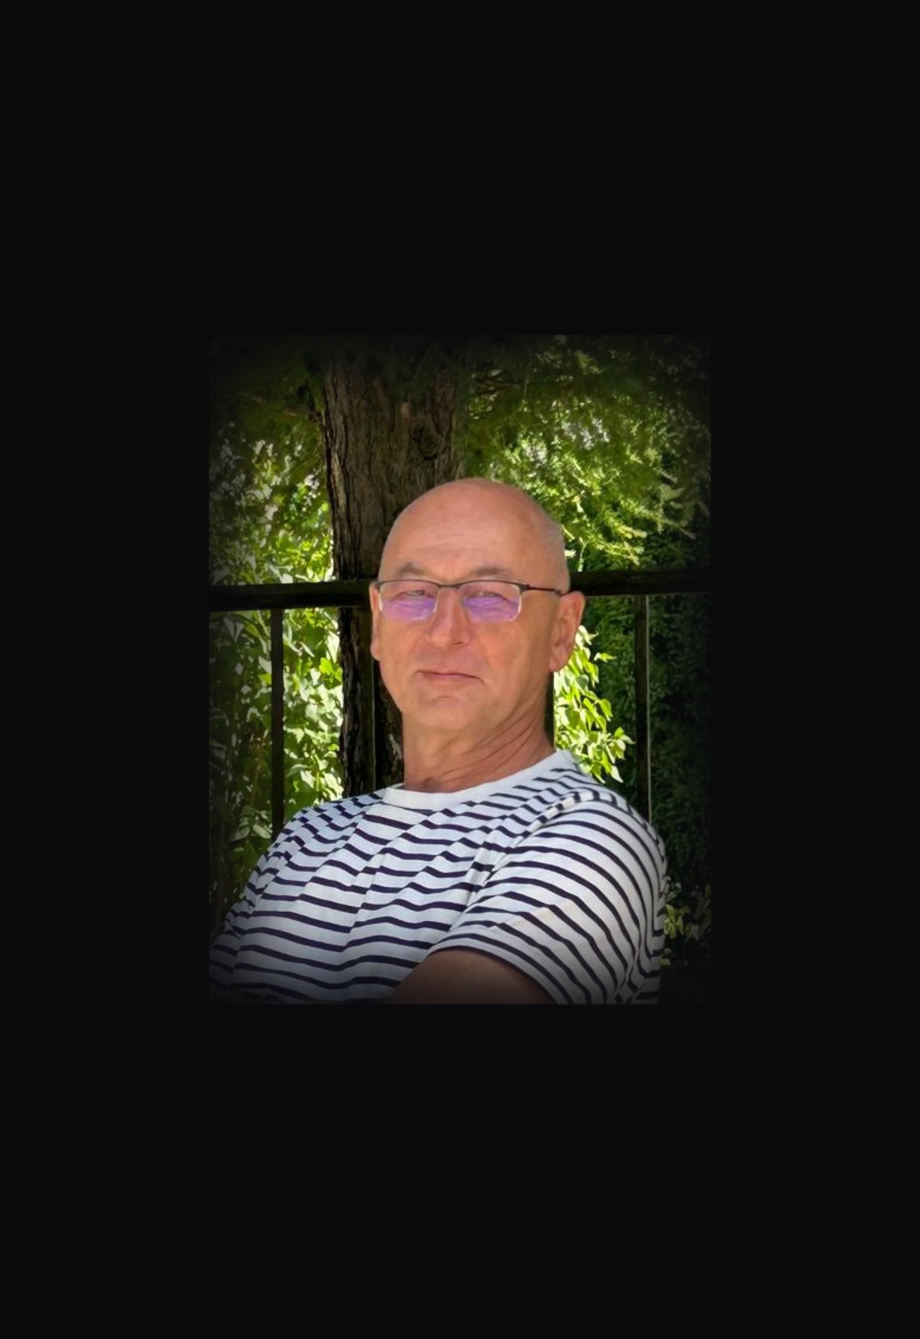
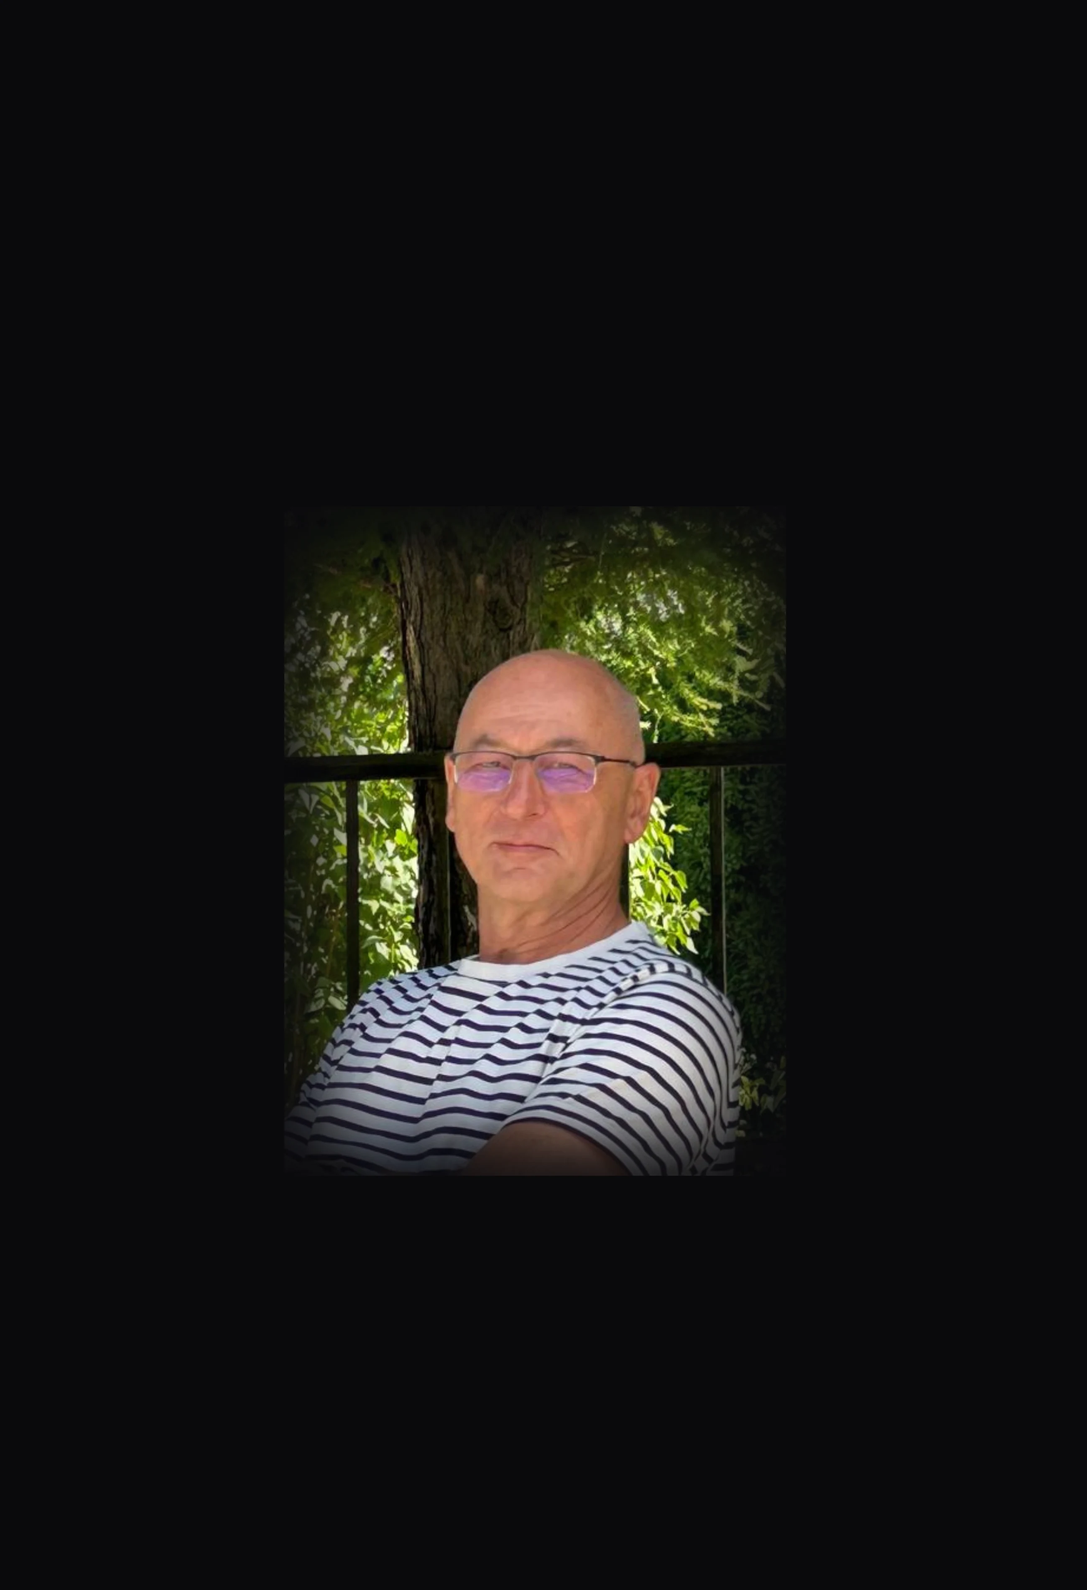
Modal mai insistent, buton WhatsApp flotant, carduri și obiecții refăcute
Modal: contorul devine "Înscrierea e simplă:"; câmpurile sunt acum
nume, telefon, email și "Care e business-ul?" (fișa Google a
dispărut). Apare după 7 secunde în loc de 20 și la 18% scroll în
loc de 50%. Reapare la fiecare reîncărcare a paginii — memoria de
30 de zile a fost scoasă. Singura excepție: după ce cineva chiar
trimite formularul, nu mai apare în sesiunea aceea.

Buton WhatsApp flotant, jos-dreapta: 56px pe desktop, 52px pe
mobil, CSS izolat cu prefix .wa-float, z-index 8000 — peste nav,
sub modal. Verificat că modalul rămâne deasupra lui.

Poza: pânză 2600x3800 și, mai important, așezată astfel încât fața
să cadă exact în centrul cadrului, nu cadrul pozei. Capul scade de
la ~194px la ~164px pe desktop.

"Ce primești": 7 carduri devin 6, deci grila se umple 3+3 și nu mai
rămâne un rând neterminat. Domeniul și găzduirea sunt tratate
împreună, într-un text mai scurt și neconditionat. Plata e 50/50
pentru orice pachet — dispare împărțirea în patru tranșe și fraza
"unde se lucrează luni întregi". La modificări de conținut apare
acum opțiunea de panou de administrare, în funcție de cine vrea să
se ocupe de întreținere.

Obiecții: de la 2 la 5. Revin cele despre prieten, social media și
WordPress, rescrise să dea dreptate alternativei înainte de a
spune unde e diferența. Datele structurate FAQ urmează aceeași
listă.

Claude-Session: https://claude.ai/code/session_01Xsez89szrkyuBCTWrfDQQi

Changed region(s): [[0.2164, 0.25, 0.7727, 0.75]]

diff --git a/index.html b/index.html
@@ -101,10 +101,34 @@
         },
         {
           "@type": "Question",
+          "name": "Un prieten pasionat îți poate face un site?",
+          "acceptedAnswer": {
+            "@type": "Answer",
+            "text": "Poate ieși chiar bine. Întrebarea e peste șase luni, când vrei o modificare și el are alt job. Fără un acord scris nu există termene și nici cui să te adresezi. Eu lucrez pe contract tocmai ca să nu ajungem acolo."
+          }
+        },
+        {
+          "@type": "Question",
           "name": "Găsești un freelancer la jumătate de preț?",
           "acceptedAnswer": {
             "@type": "Answer",
             "text": "De obicei plătești o lucrare punctuală, nu ceva care ține. Diferența de preț cumpără continuitate: cineva care știe cum lucrezi, răspunde când îl cauți și se ocupă de site și peste un an."
+          }
+        },
+        {
+          "@type": "Question",
+          "name": "O pagină de social media e de ajuns la început?",
+          "acceptedAnswer": {
+            "@type": "Answer",
+            "text": "Chiar e, pentru multe afaceri. Partea care merită știută e că pagina nu e a ta — e găzduită de cineva care poate schimba regulile oricând. Un site și o listă proprie de clienți rămân la tine. Ideal le ai pe amândouă."
+          }
+        },
+        {
+          "@type": "Question",
+          "name": "De ce construiești de la zero și nu pe WordPress?",
+          "acceptedAnswer": {
+            "@type": "Answer",
+            "text": "WordPress e o platformă bună și cea mai răspândită. Alegerea mea e alta din motive practice: fiecare plugin e cod scris de altcineva, iar o actualizare nepotrivită poate încetini site-ul sau deschide o breșă. Construiesc de la zero ca să știu exact ce e înăuntru. Dacă ai deja un WordPress care merge bine, nu te sfătuiesc să-l arunci."
           }
         },
         {
@@ -2584,6 +2608,41 @@
       .lansare-modal__panel { transition: none }
     }
   </style>
+  <!-- ═══════ BUTON FLOTANT WHATSAPP — CSS izolat ═══════ -->
+  <style>
+    /* Prefixat .wa-float. Nu modifică nicio clasă existentă.
+       z-index 8000: peste conținut și nav (500), sub modal (9000). */
+    .wa-float {
+      position: fixed;
+      right: 1.5rem;
+      bottom: 1.5rem;
+      z-index: 8000;
+      width: 56px;
+      height: 56px;
+      display: inline-flex;
+      align-items: center;
+      justify-content: center;
+      background: var(--lime);
+      color: var(--ink);
+      border-radius: 999px;           /* ca .vtag și .pkg-badge */
+      box-shadow: 0 10px 30px rgba(0, 0, 0, .45);
+      transition: background .3s ease, transform .3s var(--fx);
+    }
+
+    .wa-float:hover { background: #DEFF00; transform: translateY(-3px) }
+    .wa-float:focus-visible { outline: 2px solid var(--ods); outline-offset: 3px }
+    .wa-float svg { width: 28px; height: 28px; display: block }
+
+    @media (max-width: 600px) {
+      .wa-float { right: 1rem; bottom: 1rem; width: 52px; height: 52px }
+      .wa-float svg { width: 26px; height: 26px }
+    }
+
+    @media (prefers-reduced-motion: reduce) {
+      .wa-float { transition: none }
+      .wa-float:hover { transform: none }
+    }
+  </style>
 </head>
 
 <body>
@@ -2591,6 +2650,15 @@
   <div id="grain" aria-hidden="true"></div>
   <div id="cur" aria-hidden="true"></div>
   <div id="curR" aria-hidden="true"><span id="curT">Vezi proiect</span></div>
+
+  <!-- ═══════ BUTON FLOTANT WHATSAPP ═══════ -->
+  <a class="wa-float" href="https://wa.me/40734205111?text=Bun%C4%83%2C%20am%20v%C4%83zut%20cebuc.ro%20%C8%99i%20vreau%20s%C4%83%20discut%C4%83m%20despre%20un%20site." target="_blank" rel="noopener noreferrer"
+    aria-label="Scrie-mi pe WhatsApp la +40 734 205 111">
+    <svg viewBox="0 0 24 24" fill="currentColor" aria-hidden="true">
+      <path d="M17.47 14.38c-.3-.15-1.76-.87-2.03-.97-.27-.1-.47-.15-.67.15-.2.3-.77.96-.94 1.16-.17.2-.35.22-.64.07-.3-.15-1.25-.46-2.39-1.47-.88-.79-1.48-1.76-1.65-2.06-.17-.3-.02-.46.13-.61.13-.13.3-.35.45-.52.15-.17.2-.3.3-.5.1-.2.05-.37-.02-.52-.08-.15-.67-1.61-.92-2.21-.24-.58-.49-.5-.67-.51h-.57c-.2 0-.52.07-.79.37-.27.3-1.04 1.02-1.04 2.48s1.07 2.88 1.22 3.08c.15.2 2.1 3.2 5.08 4.49.71.3 1.26.49 1.69.63.71.22 1.36.19 1.87.12.57-.09 1.76-.72 2.01-1.41.25-.69.25-1.29.17-1.41-.07-.12-.27-.2-.57-.35z"/>
+      <path d="M12.04 2C6.58 2 2.13 6.45 2.13 11.91c0 1.75.46 3.45 1.32 4.95L2 22l5.25-1.38a9.87 9.87 0 0 0 4.79 1.22h.01c5.46 0 9.91-4.45 9.91-9.91 0-2.65-1.03-5.14-2.9-7.01A9.82 9.82 0 0 0 12.04 2zm0 18.13h-.01a8.2 8.2 0 0 1-4.18-1.15l-.3-.18-3.12.82.83-3.04-.2-.31a8.17 8.17 0 0 1-1.25-4.36c0-4.54 3.7-8.24 8.24-8.24a8.18 8.18 0 0 1 5.82 2.42 8.18 8.18 0 0 1 2.41 5.83c0 4.54-3.7 8.23-8.24 8.23z"/>
+    </svg>
+  </a>
 
   <!-- ═══════ MODAL „SITE GRATUIT" ═══════ -->
   <div class="lansare-modal" id="lansareModal" role="dialog" aria-modal="true"
@@ -2612,7 +2680,7 @@
           îți spun costurile în cifre înainte să începem și mă ocup eu de configurare, dacă vrei.</p>
       </div>
 
-      <p class="lansare-modal__contor">Locuri rămase: <span id="lansareLocuri">5</span> din 10</p>
+      <p class="lansare-modal__contor">Înscrierea e simplă:</p>
 
       <form class="lansare-modal__form" id="lansareForm"
         action="https://formsubmit.co/lucian.cebuc@gmail.com" method="POST">
@@ -2623,12 +2691,11 @@
         <input class="lansare-modal__in" type="text" name="nume" required
           placeholder="Numele tău" aria-label="Numele tău">
         <input class="lansare-modal__in" type="tel" name="telefon" required
-          placeholder="Telefon" aria-label="Telefon">
-        <input class="lansare-modal__in" type="text" name="firma" required
-          placeholder="Ce firmă ai" aria-label="Ce firmă ai">
-        <input class="lansare-modal__in" type="text" name="fisa_google"
-          placeholder="Link la fișa ta de Google, dacă ai (opțional)"
-          aria-label="Link la fișa ta de Google, dacă ai — opțional">
+          placeholder="Numărul de telefon" aria-label="Numărul de telefon">
+        <input class="lansare-modal__in" type="email" name="email" required
+          placeholder="Email" aria-label="Email">
+        <input class="lansare-modal__in" type="text" name="business" required
+          placeholder="Care e business-ul?" aria-label="Care e business-ul?">
 
         <button type="submit" class="lansare-modal__sub">Vreau să aplic</button>
 
@@ -3204,61 +3271,52 @@
 
         <div class="mt-card">
           <h3 class="mt-name">Termen de livrare</h3>
-          <p class="mt-desc">Fișa Google: 3–5 zile lucrătoare. Site de prezentare (Start): 7 zile lucrătoare, sau
-            până în 10 dacă am mai multe proiecte în lucru — îți spun exact din prima zi. Site sau magazin online
-            (Grow): 2–4 săptămâni, în funcție de câte produse ai. Asistentul AI și sistemul făcut pe măsură: îți spun
-            termenul în ofertă, înainte să decizi. Termenul începe când am de la tine textele, pozele și accesele
-            necesare. Îți dau lista lor din prima zi.</p>
+          <p class="mt-desc">Fișa Google: 3–5 zile lucrătoare. Site de prezentare: 7 zile lucrătoare, sau până în 10
+            dacă am mai multe proiecte în lucru — îți spun exact din prima zi. Site sau magazin online: 2–4 săptămâni,
+            în funcție de câte produse ai. La Asistentul AI și la sistemul custom, îți spun termenul în ofertă,
+            înainte să decizi.</p>
+          <p class="mt-desc">Termenul începe când am de la tine textele, pozele și accesele. Îți dau lista lor din
+            prima zi.</p>
         </div>
 
         <div class="mt-card">
           <h3 class="mt-name">Domeniul și găzduirea</h3>
-          <p class="mt-desc">Domeniul e al tău și rămâne al tău, oricum am face. Ai două variante: ori îl cumperi
-            tu și îți dau lista de pași, ori, dacă preferi, mă ocup eu de cumpărare și configurare — în numele tău sau
-            al firmei tale, nu pe numele meu. Dacă nu ai încă domeniu, îți propun și variante de denumire. Dacă ai
-            deja domeniu și găzduire, lucrăm pe ce ai — îți spun din start ce se poate face acolo și ce nu.</p>
-          <p class="mt-desc">Găzduirea e tot a ta, pe contul tău. Îți recomand furnizorul potrivit pentru ce
-            construim, îți spun costul în cifre înainte să începem și mă ocup eu de configurare și de publicare.
-            Contul rămâne pe numele tău, cu plata ta — așa nu depinzi de mine ca să ții site-ul în aer. La sistemele
-            cu conturi de utilizatori sau bază de date, costurile lunare sunt mai mari și ți le trec în ofertă, tot în
-            cifre. Nimic nu se pornește fără acordul tău.</p>
-        </div>
-
-        <div class="mt-card">
-          <h3 class="mt-name">Ce e al tău</h3>
-          <p class="mt-desc">După plata integrală primești codul site-ului dacă îl ceri, deci nu rămâi legat de mine
-            ca să-l păstrezi. La Asistentul AI și la sistemul custom îl primești automat la recepție, fără să-l ceri,
-            împreună cu documentația și structura bazei de date. Costurile către terți (domeniu și, la proiectele
-            complexe, serviciile folosite) le plătești direct furnizorului, pe contul tău.</p>
-        </div>
-
-        <div class="mt-card">
-          <h3 class="mt-name">Cum îți schimbi textele și prețurile</h3>
-          <p class="mt-desc">Site-ul nu are panou de administrare: îmi trimiți schimbarea pe WhatsApp sau pe email și
-            o fac eu. În primele 30 de zile după lansare, modificările mici (texte, prețuri, poze) sunt incluse. După
-            aceea, sunt incluse în Suport &amp; Liniște (până la 1 oră pe lună) sau le facem la 15 EUR/oră — tarif de
-            lansare, facturat pe sferturi de oră, fără abonament.</p>
+          <p class="mt-desc">Amândouă sunt ale tale, pe numele tău sau al firmei tale, și rămân ale tale. Le poți
+            cumpăra tu, sau mă ocup eu în numele tău — cum preferi. Îți recomand furnizorii, îți spun costul în cifre
+            înainte să începem și mă ocup de configurare și de publicare.</p>
+          <p class="mt-desc">Așa nu depinzi de mine ca să ții site-ul în aer. Dacă ai deja domeniu și găzduire,
+            lucrăm pe ce ai.</p>
         </div>
 
         <div class="mt-card">
           <h3 class="mt-name">Plata</h3>
-          <p class="mt-desc">50% la semnarea contractului, 50% la recepția finală. Site-ul intră pe domeniul tău
-            după recepția finală.</p>
-          <p class="mt-desc">La Asistentul AI și la sistemul custom, unde se lucrează luni întregi, plata se împarte
-            în patru: 30% la semnare, 30% la prima versiune funcțională pe care o vezi și o testezi, 30% la recepție
-            și 10% la finalul perioadei de garanție.</p>
+          <p class="mt-desc">50% la semnarea contractului, 50% la recepția finală. Atât, pentru orice pachet.</p>
+          <p class="mt-desc">Site-ul intră pe domeniul tău după recepția finală.</p>
         </div>
 
         <div class="mt-card">
-          <h3 class="mt-name">Prețuri și TVA</h3>
+          <h3 class="mt-name">Cum îți schimbi textele și prețurile</h3>
+          <p class="mt-desc">Depinde cine vrei să se ocupe. Dacă preferi să nu te atingi de nimic, îmi trimiți
+            schimbarea pe WhatsApp sau pe email și o fac eu. Dacă vrei să le schimbi singur, îți construiesc un panou
+            de administrare din care le modifici când vrei — îți spun în ofertă cât costă în plus.</p>
+          <p class="mt-desc">În primele 30 de zile după lansare, modificările mici sunt incluse oricum. După aceea,
+            intră în Suport &amp; Liniște sau le facem la 15 EUR/oră, facturat pe sferturi de oră.</p>
+        </div>
+
+        <div class="mt-card">
+          <h3 class="mt-name">Ce e al tău</h3>
+          <p class="mt-desc">După plata integrală primești codul site-ului, dacă îl ceri — deci nu rămâi legat de mine
+            ca să-l păstrezi. La Asistentul AI și la sistemul custom îl primești automat la recepție, cu tot cu
+            documentație.</p>
+          <p class="mt-desc">Costurile către terți le plătești direct furnizorului, pe contul tău.</p>
+        </div>
+
+        <div class="mt-card">
+          <h3 class="mt-name">Prețuri și modificări</h3>
           <p class="mt-desc">Prețurile sunt finale. Nu sunt plătitor de TVA, deci nu se adaugă nimic la factură.</p>
-        </div>
-
-        <div class="mt-card">
-          <h3 class="mt-name">Modificări incluse</h3>
-          <p class="mt-desc">Două runde de modificări în faza de aprobare a designului și a textelor. O rundă înseamnă
-            toate observațiile tale trimise odată. Dacă apare după lansare o greșeală de-a mea, o repar gratuit în
-            primele 30 de zile. Modificările în plus se fac la tariful orar de mai sus.</p>
+          <p class="mt-desc">Sunt incluse două runde de modificări la design și texte — o rundă înseamnă toate
+            observațiile tale trimise odată. Dacă apare după lansare o greșeală de-a mea, o repar gratuit în primele
+            30 de zile.</p>
         </div>
 
       </div>
@@ -3469,7 +3527,6 @@
       </p>
 
       <div class="obj-list">
-
         <div class="obj-item">
           <button class="obj-head" type="button" aria-expanded="false" aria-controls="obj-1">
             <span class="obj-num">01</span>
@@ -3478,8 +3535,8 @@
           </button>
           <div class="obj-body" id="obj-1">
             <div class="obj-inner">
-              <p class="obj-line">La fel cum poți scoate un text generic în câteva secunde.</p>
-              <p class="obj-line strong">Dar un AI care nu are informațiile firmei tale inventează răspunsuri, iar omul care întreabă pleacă. Eu îl leg strict de datele tale reale și îl construiesc să spună că nu știe, în loc să ghicească.</p>
+              <p class="obj-line">Și pentru multe lucruri chiar e suficient — nu am de gând să te conving de contrariu.</p>
+              <p class="obj-line strong">Diferența apare când cineva întreabă ceva ce AI-ul nu are de unde să știe. Un instrument generic inventează un răspuns, iar omul pleacă. Eu îl leg strict de datele tale reale și îl construiesc să spună că nu știe, în loc să ghicească.</p>
             </div>
           </div>
         </div>
@@ -3487,17 +3544,58 @@
         <div class="obj-item">
           <button class="obj-head" type="button" aria-expanded="false" aria-controls="obj-2">
             <span class="obj-num">02</span>
-            <span class="obj-hook">Da, găsești un freelancer la jumătate de preț.</span>
+            <span class="obj-hook">Da, un prieten pasionat îți poate face un site.</span>
             <span class="obj-ico" aria-hidden="true"></span>
           </button>
           <div class="obj-body" id="obj-2">
             <div class="obj-inner">
-              <p class="obj-line">Dar de obicei plătești o lucrare punctuală, nu ceva care ține.</p>
-              <p class="obj-line strong">Diferența de preț cumpără continuitate: cineva care știe cum lucrezi, răspunde când îl cauți și se ocupă de site și peste un an.</p>
+              <p class="obj-line">Și poate iese chiar bine. Mulți am început exact așa.</p>
+              <p class="obj-line strong">Întrebarea e peste șase luni, când vrei o modificare și el are alt job și alt weekend. Nu e vina nimănui — doar că fără un acord scris nu există termene și nici cui să te adresezi. Eu lucrez pe contract tocmai ca să nu ajungem acolo.</p>
             </div>
           </div>
         </div>
 
+        <div class="obj-item">
+          <button class="obj-head" type="button" aria-expanded="false" aria-controls="obj-3">
+            <span class="obj-num">03</span>
+            <span class="obj-hook">Da, găsești un freelancer la jumătate de preț.</span>
+            <span class="obj-ico" aria-hidden="true"></span>
+          </button>
+          <div class="obj-body" id="obj-3">
+            <div class="obj-inner">
+              <p class="obj-line">Uneori găsești și unul foarte bun. Depinde de noroc și de cât timp ai de căutat.</p>
+              <p class="obj-line strong">Ce cumperi cu diferența de preț e continuitatea: cineva care știe cum lucrezi, răspunde când îl cauți și se ocupă de site și peste un an. Dacă ai nevoie doar de o lucrare punctuală, chiar nu am de ce să fiu eu alegerea.</p>
+            </div>
+          </div>
+        </div>
+
+        <div class="obj-item">
+          <button class="obj-head" type="button" aria-expanded="false" aria-controls="obj-4">
+            <span class="obj-num">04</span>
+            <span class="obj-hook">Da, o pagină de social media poate fi de ajuns la început.</span>
+            <span class="obj-ico" aria-hidden="true"></span>
+          </button>
+          <div class="obj-body" id="obj-4">
+            <div class="obj-inner">
+              <p class="obj-line">Chiar e, pentru multe afaceri. Acolo sunt oamenii și acolo se vorbește.</p>
+              <p class="obj-line strong">Partea care merită știută e că pagina nu e a ta — e găzduită de cineva care poate schimba regulile oricând, fără să te întrebe. Un site și o listă proprie de clienți rămân la tine indiferent ce se întâmplă. Ideal le ai pe amândouă.</p>
+            </div>
+          </div>
+        </div>
+
+        <div class="obj-item">
+          <button class="obj-head" type="button" aria-expanded="false" aria-controls="obj-5">
+            <span class="obj-num">05</span>
+            <span class="obj-hook">Da, WordPress e încă o platformă bună.</span>
+            <span class="obj-ico" aria-hidden="true"></span>
+          </button>
+          <div class="obj-body" id="obj-5">
+            <div class="obj-inner">
+              <p class="obj-line">E și cea mai răspândită, și are în spate o comunitate uriașă. Multe site-uri bune sunt făcute pe el.</p>
+              <p class="obj-line strong">Alegerea mea e alta, din motive practice: fiecare plugin e cod scris de altcineva, iar o actualizare nepotrivită poate încetini site-ul sau deschide o breșă. Construiesc de la zero ca să știu exact ce e înăuntru. Dacă ai deja un WordPress care merge bine, nu te sfătuiesc să-l arunci.</p>
+            </div>
+          </div>
+        </div>
       </div>
     </div>
   </section>
@@ -4432,37 +4530,32 @@
     (function () {
       'use strict';
 
-      /* ───── DE MODIFICAT DE MÂNĂ, SINGURELE DOUĂ LOCURI ─────
-         1. Când oferta se termină, pune PROGRAM_ACTIV = false.
-            Modalul nu mai apare deloc, fără altă modificare.
-         2. LOCURI_RAMASE: actualizează numărul după fiecare firmă acceptată. */
+      /* ───── SINGURUL LUCRU DE MODIFICAT DE MÂNĂ ─────
+         Când oferta se termină, pune PROGRAM_ACTIV = false.
+         Modalul nu mai apare deloc, fără altă modificare.
+         Atât — nu mai e nimic de actualizat manual. */
       var PROGRAM_ACTIV = true;
-      var LOCURI_RAMASE = '5';
       /* ────────────────────────────────────────────────────── */
 
-      var CHEIE = 'lansare-modal-vazut';
-      var ZILE = 30;
-      var SECUNDE_PANA_LA_APARITIE = 20;
-      var PROCENT_SCROLL = 0.5;
+      /* Modalul reapare la fiecare încărcare a paginii — e o ofertă de site
+         gratuit, deci merită văzută. Singura excepție: după ce cineva chiar
+         a trimis formularul, nu-l mai batem la cap în aceeași sesiune. */
+      var CHEIE = 'lansare-modal-trimis';
+      var SECUNDE_PANA_LA_APARITIE = 7;
+      var PROCENT_SCROLL = 0.18;
 
       var modal = document.getElementById('lansareModal');
       if (!modal || !PROGRAM_ACTIV) return;
 
-      document.getElementById('lansareLocuri').textContent = LOCURI_RAMASE;
-
       /* ───── memoria vizitatorului (expiră în 30 de zile) ───── */
-      function vazutDeja() {
-        try {
-          var v = localStorage.getItem(CHEIE);
-          if (!v) return false;
-          if (Date.now() - parseInt(v, 10) > ZILE * 864e5) { localStorage.removeItem(CHEIE); return false; }
-          return true;
-        } catch (e) { return false; }   /* navigare privată, stocare blocată */
+      function aTrimisDeja() {
+        try { return sessionStorage.getItem(CHEIE) !== null; }
+        catch (e) { return false; }     /* navigare privată, stocare blocată */
       }
       function tineMinte() {
-        try { localStorage.setItem(CHEIE, String(Date.now())); } catch (e) { }
+        try { sessionStorage.setItem(CHEIE, '1'); } catch (e) { }
       }
-      if (vazutDeja()) return;
+      if (aTrimisDeja()) return;
 
       var panou = modal.querySelector('.lansare-modal__panel');
       var deschis = false;
@@ -4496,7 +4589,7 @@
       }
 
       function deschide() {
-        if (deschis || vazutDeja()) return;
+        if (deschis || aTrimisDeja()) return;
         deschis = true;
         elementAnterior = document.activeElement;
         modal.setAttribute('data-deschis', '1');
@@ -4516,14 +4609,13 @@
         document.removeEventListener('keydown', laTasta);
         document.removeEventListener('wheel', opresteFundal, { capture: true });
         document.removeEventListener('touchmove', opresteFundal, { capture: true });
-        tineMinte();
         if (elementAnterior && elementAnterior.focus) elementAnterior.focus();
       }
 
       document.getElementById('lansareInchide').addEventListener('click', inchide);
       document.getElementById('lansareNuAcum').addEventListener('click', inchide);
       modal.addEventListener('click', function (e) { if (e.target === modal) inchide(); });
-      /* trimiterea formularului = l-a văzut, deci nu mai reapare */
+      /* doar trimiterea formularului îl oprește, în sesiunea curentă */
       document.getElementById('lansareForm').addEventListener('submit', tineMinte);
 
       /* ───── declanșare: 20 de secunde SAU 50% scroll, ce vine primul.
